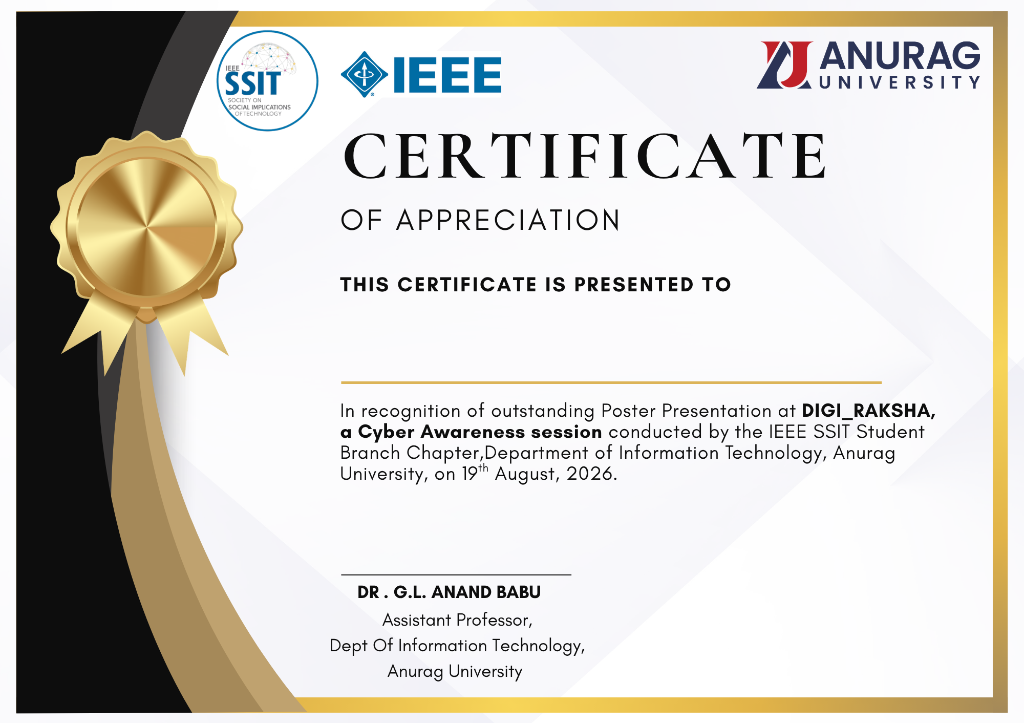
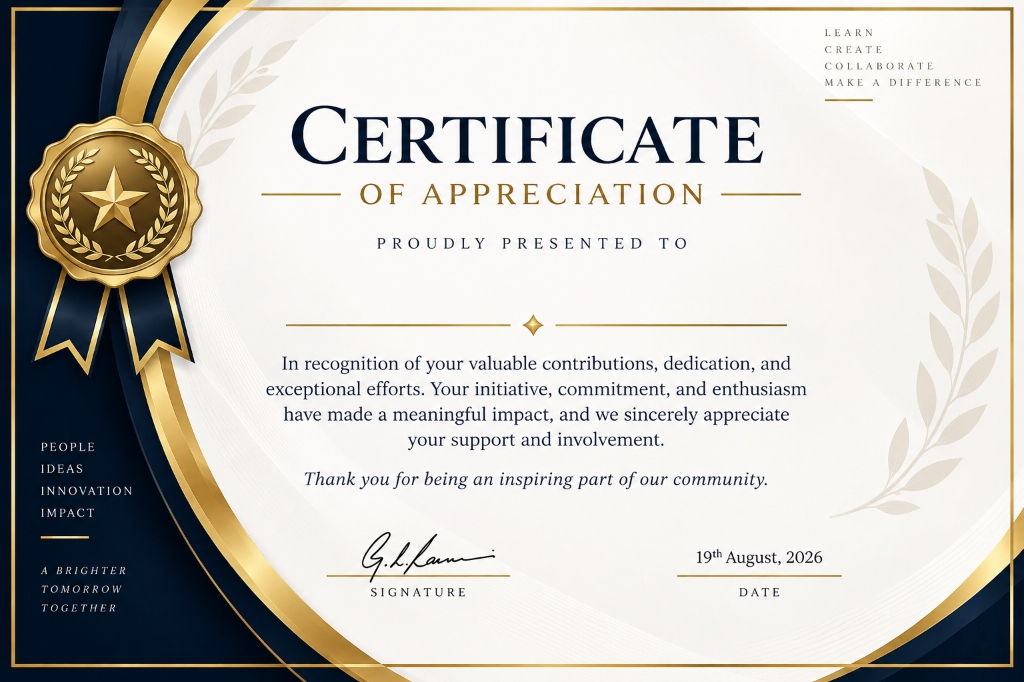
feat: replace certificate template with official Certificate of Appreciation

diff --git a/frontend/src/pages/GraduationCeremony.tsx b/frontend/src/pages/GraduationCeremony.tsx
@@ -132,7 +132,7 @@ export const GraduationCeremony: React.FC = () => {
             {/* Official Certificate Template Background */}
             <img 
               src="/certificate_official.png" 
-              alt="IEEE SSIT & Anurag University Certificate of Appreciation" 
+              alt="Official Certificate of Appreciation" 
               className="w-full h-auto block"
             />
             
@@ -140,11 +140,11 @@ export const GraduationCeremony: React.FC = () => {
             <div 
               className="absolute text-center flex items-center justify-center font-serif font-black tracking-wider uppercase"
               style={{
-                top: '43.5%',
-                left: '32%',
-                width: '56%',
+                top: '38.5%',
+                left: '23%',
+                width: '57%',
                 height: '8.5%',
-                fontSize: 'clamp(14px, 2.6vw, 36px)',
+                fontSize: 'clamp(14px, 2.8vw, 38px)',
                 color: '#0f172a',
                 letterSpacing: '0.06em',
                 textShadow: '0px 0px 1px rgba(0,0,0,0.1)'

diff --git a/frontend/src/pages/Certificate.tsx b/frontend/src/pages/Certificate.tsx
@@ -83,7 +83,7 @@ export const Certificate: React.FC = () => {
             {/* Official Certificate Template Background */}
             <img 
               src="/certificate_official.png" 
-              alt="IEEE SSIT & Anurag University Certificate of Appreciation" 
+              alt="Official Certificate of Appreciation" 
               className="w-full h-auto block"
             />
             
@@ -91,11 +91,11 @@ export const Certificate: React.FC = () => {
             <div 
               className="absolute text-center flex items-center justify-center font-serif font-black tracking-wider uppercase"
               style={{
-                top: '43.5%',
-                left: '32%',
-                width: '56%',
+                top: '38.5%',
+                left: '23%',
+                width: '57%',
                 height: '8.5%',
-                fontSize: 'clamp(14px, 2.6vw, 36px)',
+                fontSize: 'clamp(14px, 2.8vw, 38px)',
                 color: '#0f172a',
                 letterSpacing: '0.06em',
                 textShadow: '0px 0px 1px rgba(0,0,0,0.1)'
